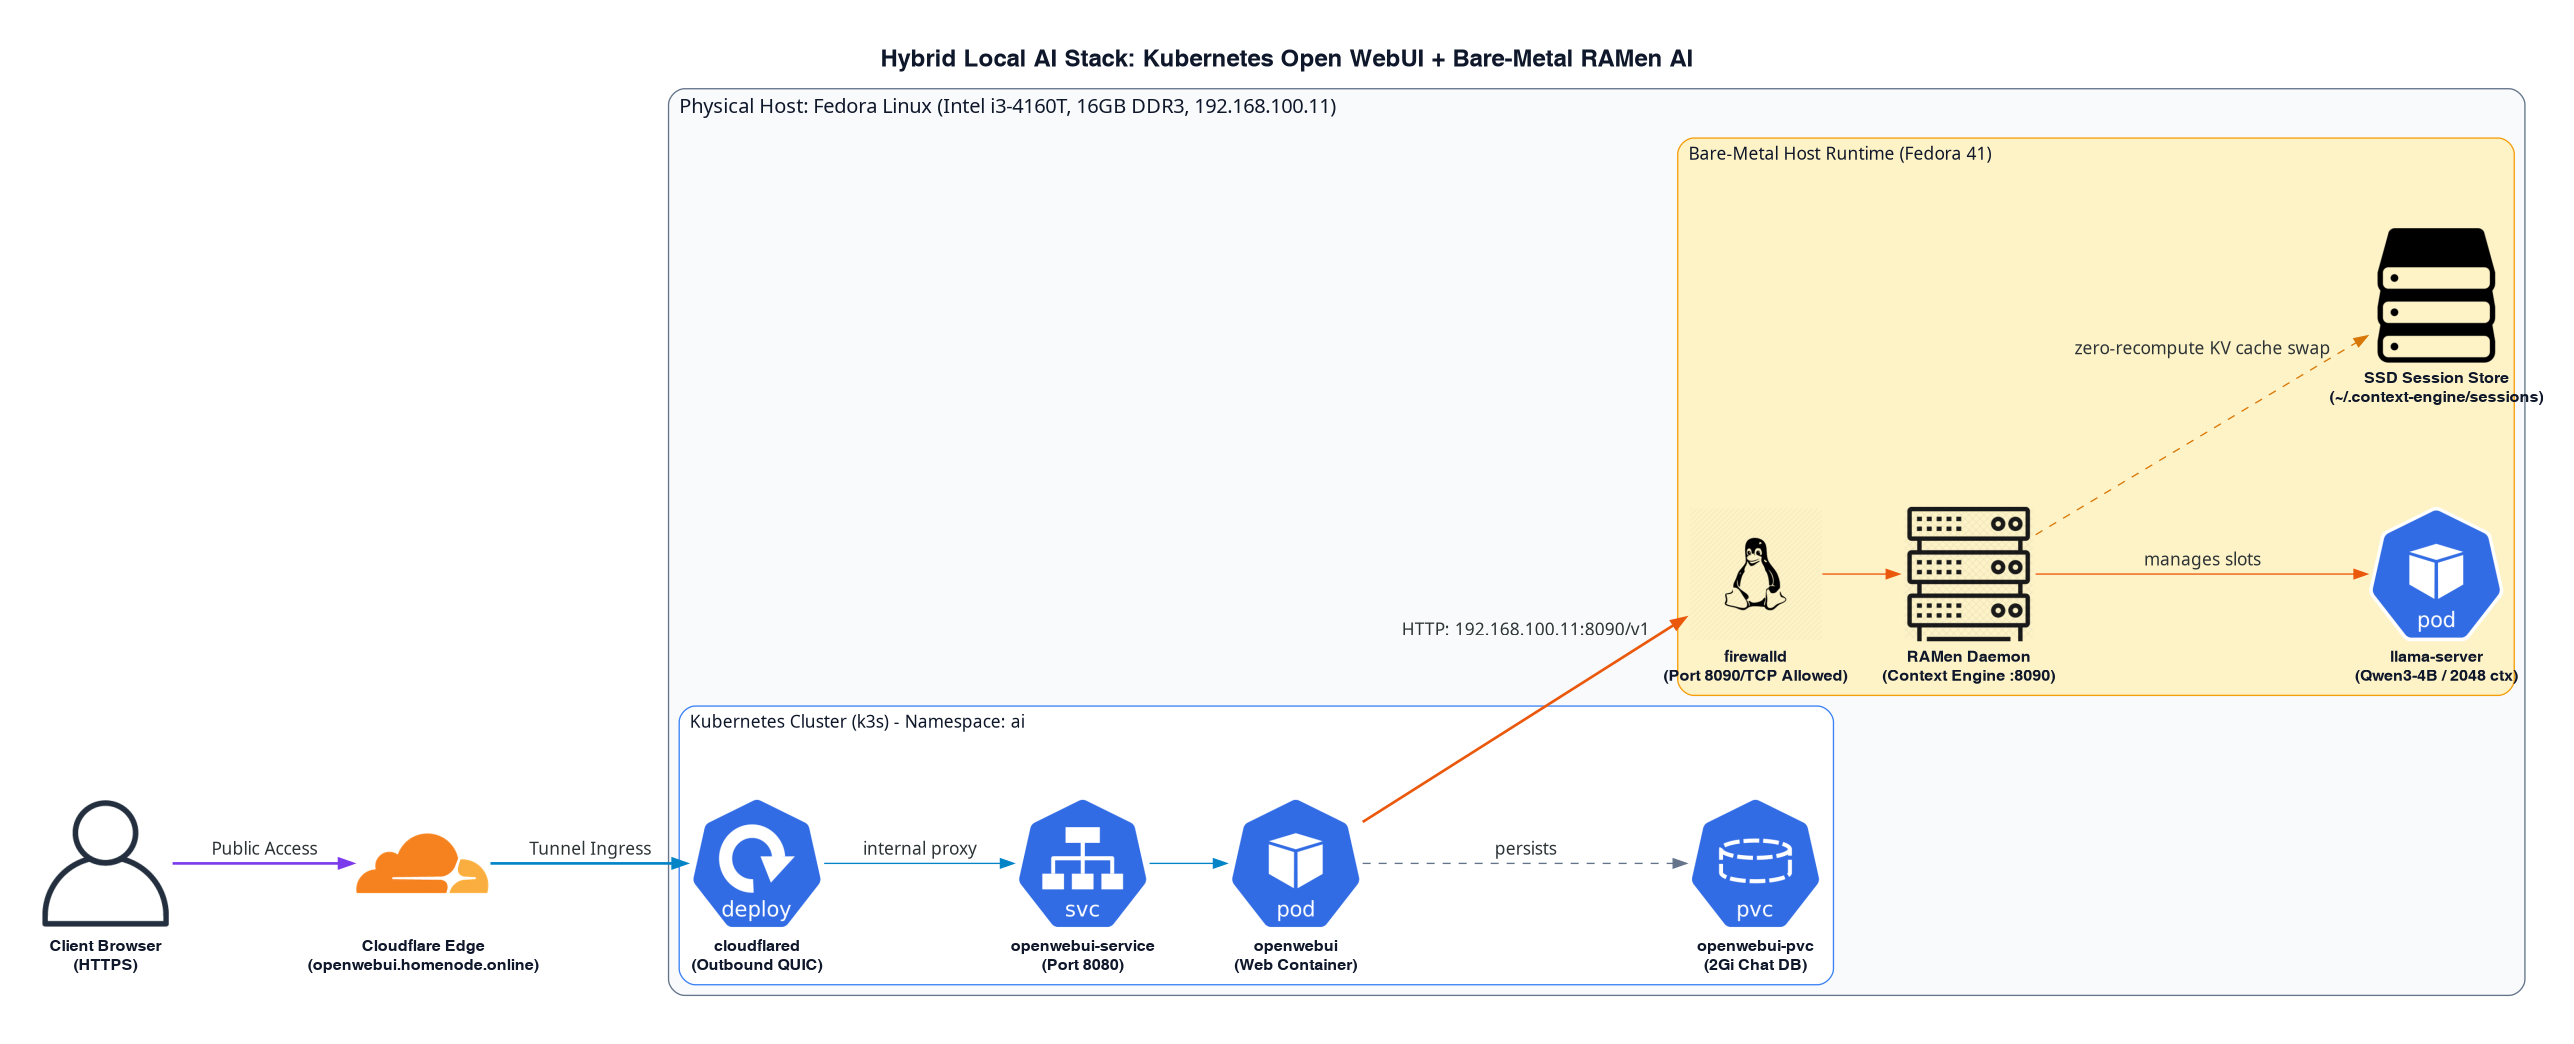
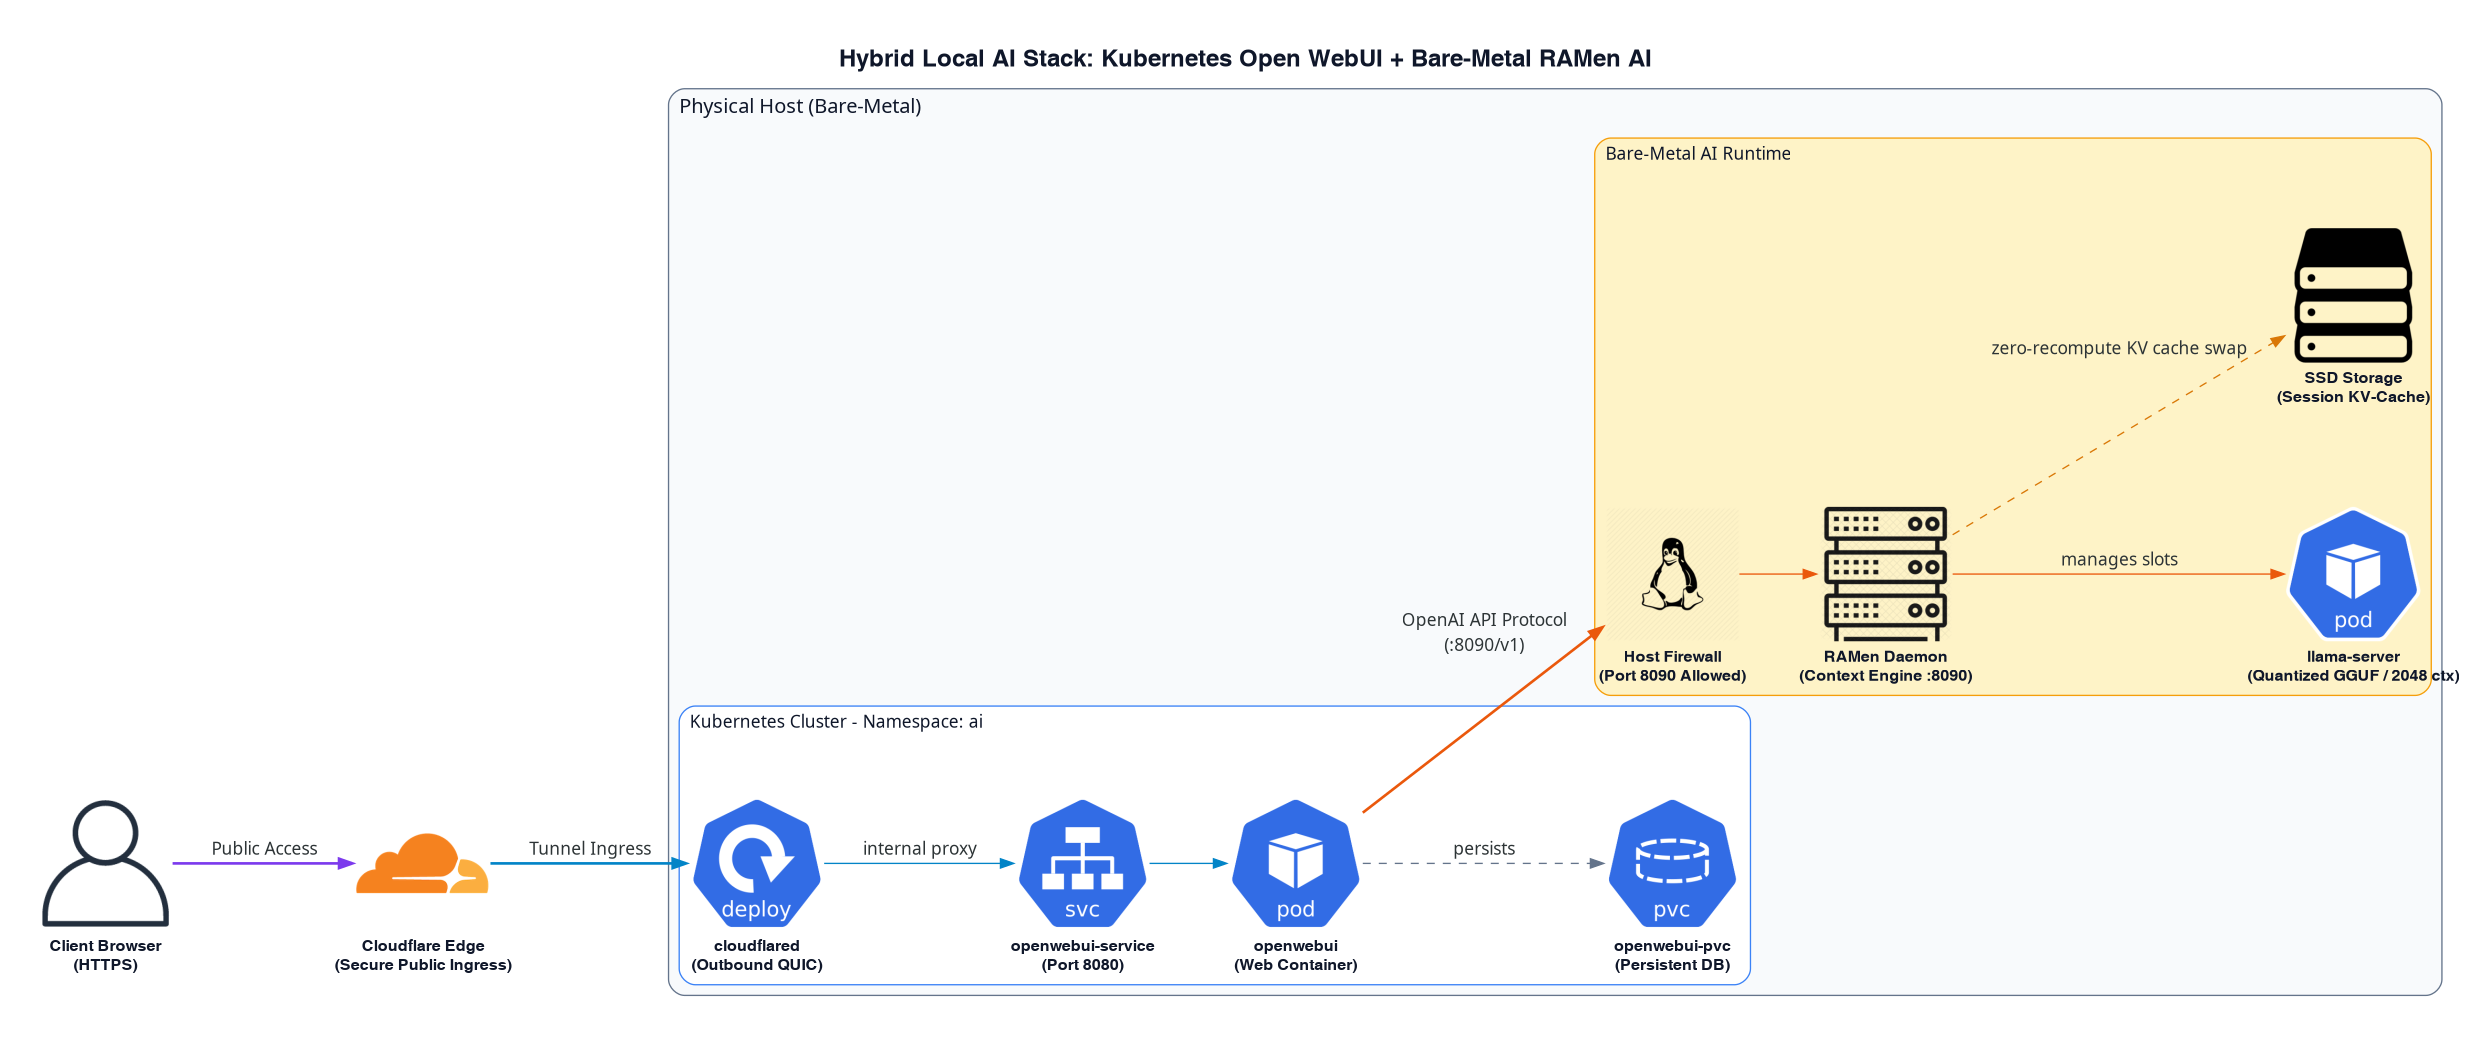
sanitize architecture diagram and documentation from personal system info

diff --git a/diagram.py b/diagram.py
@@ -53,26 +53,26 @@ with Diagram(
     edge_attr=EDGE_ATTR,
 ):
     user = User("Client Browser\n(HTTPS)")
-    cf_edge = Cloudflare("Cloudflare Edge\n(openwebui.homenode.online)")
+    cf_edge = Cloudflare("Cloudflare Edge\n(Secure Public Ingress)")
 
-    with Cluster("Physical Host: Fedora Linux (Intel i3-4160T, 16GB DDR3, 192.168.100.11)", graph_attr={"bgcolor": "#f8fafc", "pencolor": "#64748b", "fontsize": "15"}):
-        with Cluster("Kubernetes Cluster (k3s) - Namespace: ai", graph_attr={"bgcolor": "#ffffff", "pencolor": "#3b82f6", "fontsize": "13"}):
+    with Cluster("Physical Host (Bare-Metal)", graph_attr={"bgcolor": "#f8fafc", "pencolor": "#64748b", "fontsize": "15"}):
+        with Cluster("Kubernetes Cluster - Namespace: ai", graph_attr={"bgcolor": "#ffffff", "pencolor": "#3b82f6", "fontsize": "13"}):
             tunnel = Deployment("cloudflared\n(Outbound QUIC)")
             webui_svc = Service("openwebui-service\n(Port 8080)")
             webui_pod = Pod("openwebui\n(Web Container)")
-            webui_pvc = PersistentVolumeClaim("openwebui-pvc\n(2Gi Chat DB)")
+            webui_pvc = PersistentVolumeClaim("openwebui-pvc\n(Persistent DB)")
 
             tunnel >> Edge(color="#0284c7", label="internal proxy") >> webui_svc
             webui_svc >> Edge(color="#0284c7") >> webui_pod
             webui_pod >> Edge(color="#64748b", style="dashed", label="persists") >> webui_pvc
 
-        with Cluster("Bare-Metal Host Runtime (Fedora 41)", graph_attr={"bgcolor": "#fef3c7", "pencolor": "#f59e0b", "fontsize": "13"}):
-            firewall = LinuxGeneral("firewalld\n(Port 8090/TCP Allowed)")
+        with Cluster("Bare-Metal AI Runtime", graph_attr={"bgcolor": "#fef3c7", "pencolor": "#f59e0b", "fontsize": "13"}):
+            firewall = LinuxGeneral("Host Firewall\n(Port 8090 Allowed)")
             ramen_daemon = Rack("RAMen Daemon\n(Context Engine :8090)")
-            llama_engine = Pod("llama-server\n(Qwen3-4B / 2048 ctx)")
-            ssd_cache = Storage("SSD Session Store\n(~/.context-engine/sessions)")
+            llama_engine = Pod("llama-server\n(Quantized GGUF / 2048 ctx)")
+            ssd_cache = Storage("SSD Storage\n(Session KV-Cache)")
 
-            webui_pod >> Edge(color="#ea580c", style="bold", label="HTTP: 192.168.100.11:8090/v1") >> firewall
+            webui_pod >> Edge(color="#ea580c", style="bold", label="OpenAI API Protocol\n(:8090/v1)") >> firewall
             firewall >> Edge(color="#ea580c") >> ramen_daemon
             ramen_daemon >> Edge(color="#ea580c", label="manages slots") >> llama_engine
             ramen_daemon >> Edge(color="#d97706", style="dashed", label="zero-recompute KV cache swap") >> ssd_cache

diff --git a/README.md b/README.md
@@ -1,6 +1,6 @@
 # Hybrid Local AI: Kubernetes Open WebUI + Bare-Metal RAMen AI
 
-A high-efficiency, zero-recomputation local AI infrastructure running on modest home server hardware (**Intel Core i3-4160T**, 16 GB DDR3 RAM, Fedora Linux). 
+A high-efficiency, zero-recomputation local AI infrastructure running on modest server hardware. 
 
 This setup combines a **Kubernetes-hosted Open WebUI** frontend exposed securely via **Cloudflare Tunnel** with a **Bare-Metal RAMen AI Context Engine** on the host OS to eliminate container CPU throttling, constrain context size to prevent CPU freezes, and persist KV-cache attention slots directly to NVMe/SSD.
 
@@ -14,11 +14,11 @@ This setup combines a **Kubernetes-hosted Open WebUI** frontend exposed securely
 [ Browser / User ]
         │ (HTTPS)
         ▼
-[ Cloudflare Edge: openwebui.homenode.online ]
+[ Cloudflare Edge: Secure Public Ingress ]
         │
         ▼ (Outbound QUIC Tunnel - Zero Inbound Ports)
 ┌────────────────────────────────────────────────────────────────────────┐
-│ Kubernetes Cluster (k3s) - Namespace: ai                               │
+│ Kubernetes Cluster - Namespace: ai                                     │
 │                                                                        │
 │  [ cloudflared ] ───► [ openwebui-service:8080 ]                       │
 │                              │                                         │
@@ -27,19 +27,19 @@ This setup combines a **Kubernetes-hosted Open WebUI** frontend exposed securely
 │                              │              (Users & Chat History)     │
 │                              │                                         │
 └──────────────────────────────┼─────────────────────────────────────────┘
-                               │ OpenAI API: http://192.168.100.11:8090/v1
+                               │ OpenAI API Protocol (:8090/v1)
                                ▼
 ┌────────────────────────────────────────────────────────────────────────┐
-│ Bare-Metal Host (Fedora Linux - Intel i3-4160T, 16 GB RAM)             │
+│ Bare-Metal Host Runtime                                                │
 │                                                                        │
-│  [ firewalld: Port 8090/TCP Allowed ]                                  │
+│  [ Host Firewall: Port 8090 Allowed ]                                  │
 │        │                                                               │
 │        ▼                                                               │
 │  [ RAMen AI Daemon (:8090) ]                                           │
 │        │                                                               │
-│        ├──► [ llama-server ] (Qwen3 4B Instruct / 2048 Context / 4 Thr)│
+│        ├──► [ llama-server ] (Quantized GGUF / 2048 Context)           │
 │        │                                                               │
-│        └──► [ SSD KV-Cache Store ] (~/.context-engine/sessions)        │
+│        └──► [ SSD Storage ] (Session KV-Cache)                         │
 │             (Zero-Recompute Slot Swapping in ~50ms)                    │
 └────────────────────────────────────────────────────────────────────────┘
 ```
@@ -48,28 +48,28 @@ This setup combines a **Kubernetes-hosted Open WebUI** frontend exposed securely
 
 ## The Engineering Challenge & Solution
 
-### 1. The Dual-Core CPU & Memory Bottleneck
-Running local LLMs on an older dual-core processor (Intel Core i3-4160T, 2 cores, 4 threads, 35W TDP, Haswell) poses severe constraints:
-* **8B Model Overload**: An 8-Billion parameter model requires reading ~4.7 GB of weights per token. On a dual-core CPU with DDR3 memory bandwidth, prompt processing locks the CPU at 100% for minutes.
-* **Unconstrained Context Windows**: When RAMen starts with 14+ GB of free memory, its automatic planner allocates **19,000 to 51,000 token context windows**. On a low-power CPU, calculating attention matrices across 19K tokens paralyzes the system indefinitely.
+### 1. Dual-Core CPU & Memory Bottlenecks
+Running local LLMs on resource-constrained processors poses severe constraints:
+* **8B Model Overload**: Large models require massive memory bandwidth and compute operations per token. On low-power CPUs without dedicated GPUs, prompt processing locks the system for minutes.
+* **Unconstrained Context Windows**: When inference servers allocate **19,000 to 51,000 token context windows**, calculating attention matrices across long contexts paralyzes dual-core systems.
 * **The Solution**: 
-  1. Downscale to a compact, high-efficiency 4B model (**Qwen3 4B Instruct**, 2.5 GB).
+  1. Downscale to a compact, high-efficiency quantized model (such as a 3B or 4B GGUF).
   2. Enforce a strict context window of **2,048 tokens** (`--ctx 2048`).
-  3. Maximize parallel execution across all logical threads (`--threads 4`).
+  3. Maximize parallel execution across logical CPU threads.
 
 ### 2. Why Run RAMen Bare-Metal Outside Kubernetes?
-* **Zero Container/Cgroups Throttling**: Direct access to AVX2 instruction sets without container virtualization layers.
-* **Persistent Model & Cache Directory**: Models and session snapshots live permanently in `/home/yasir/.context-engine/` on host storage without re-downloading on pod restarts.
-* **Direct Network Access**: Open WebUI in Kubernetes connects directly to the host IP (`http://192.168.100.11:8090/v1`) after allowing port 8090 in Fedora's `firewalld`.
+* **Zero Container/Cgroups Throttling**: Direct access to AVX instruction sets without container virtualization layers.
+* **Persistent Model & Cache Directory**: Models and session snapshots live permanently on host storage without re-downloading on container restarts.
+* **Direct Network Access**: Open WebUI in Kubernetes connects directly to the host IP (`http://<HOST-IP>:8090/v1`) through the local firewall.
 
 ### 3. How RAMen AI Eliminates Prompt Prefill Latency
 In standard inference engines (vanilla llama.cpp or Ollama):
 * Every turn in a conversation forces the model to re-read and compute the mathematical Key-Value attention states for **all previous messages** (Prompt Evaluation).
-* On an i3 CPU, a 1,500-token chat history requires 30 to 60 seconds of 100% CPU time before emitting token 1.
+* On low-power CPUs, a 1,500-token chat history requires 30 to 60 seconds of 100% CPU time before emitting token 1.
 
 With RAMen AI:
 * RAMen captures the computed **KV cache vectors** in memory after each generation.
-* **SSD Slot Swapping**: When switching chats or when an idle timeout triggers, RAMen snapshots the binary KV matrices to `~/.context-engine/sessions/` on the SSD.
+* **SSD Slot Swapping**: When switching chats or when an idle timeout triggers, RAMen snapshots the binary KV matrices to disk on the SSD.
 * **Instant Recall**: When resuming a conversation, RAMen reads the session back into memory in ~50ms, skipping the prompt prefill phase entirely.
 
 ---
@@ -82,7 +82,7 @@ With RAMen AI:
 ├── docs/
 │   └── architecture.png               # High-resolution visual system diagram
 └── k8s/
-    ├── 01-deployment-openwebui.yaml   # Open WebUI deployment (points to 192.168.100.11:8090)
+    ├── 01-deployment-openwebui.yaml   # Open WebUI deployment (configured for host:8090)
     ├── 02-service-openwebui.yaml      # ClusterIP service for Open WebUI (port 8080)
     ├── 03-pvc-openwebui.yaml          # 2Gi storage for SQLite database & user sessions
     └── kustomization.yaml             # Single-command Kustomize bundle
@@ -92,10 +92,10 @@ With RAMen AI:
 
 ## Step-by-Step Deployment Guide
 
-### Phase 1: Host Preparation (Fedora Linux)
+### Phase 1: Host Preparation
 
-#### 1. Open Port 8090 in Fedora Firewall
-Fedora's `firewalld` blocks pod network traffic (`10.42.0.0/16`) to host ports by default. Allow TCP port 8090:
+#### 1. Open Port 8090 in Host Firewall
+Allow pod network traffic to access port 8090:
 
 ```bash
 sudo firewall-cmd --add-port=8090/tcp --permanent
@@ -116,30 +116,28 @@ ramen start qwen3-4b --ctx 2048 --host 0.0.0.0 --port 8090
 Verify the local model server is healthy:
 ```bash
 curl http://127.0.0.1:8090/v1/models
-# Output: {"object": "list", "data": [{"id": "qwen3:4b", ...}]}
 ```
 
 ---
 
-### Phase 2: Kubernetes Deployment (k3s)
+### Phase 2: Kubernetes Deployment
 
-#### 1. Deploy Open WebUI
-Deploy Open WebUI using Kustomize:
+#### 1. Configure the Target Host IP
+In `k8s/01-deployment-openwebui.yaml`, verify `OPENAI_API_BASE_URL` matches your host's local IP address:
+```yaml
+- name: OPENAI_API_BASE_URL
+  value: "http://<YOUR-HOST-IP>:8090/v1"
+```
 
+#### 2. Deploy Open WebUI
 ```bash
 kubectl apply -k k8s/
 ```
 
-#### 2. Verify Pod and Service
+#### 3. Verify Pod and In-Cluster Access
 ```bash
 kubectl get pods,svc -n ai
-```
-
-#### 3. Verify Direct Connectivity to Host
-Test that the Open WebUI container can reach RAMen running on the host:
-
-```bash
-kubectl exec -it -n ai deploy/openwebui -- curl -s http://192.168.100.11:8090/v1/models
+kubectl exec -it -n ai deploy/openwebui -- curl -s http://<YOUR-HOST-IP>:8090/v1/models
 ```
 
 ---
@@ -158,17 +156,3 @@ ramen status
 ls -lh ~/.context-engine/sessions/
 ```
 Shows serialized binary cache files persisted to disk for instant conversation resumption without CPU recalculation.
-
----
-
-## Hardware Specifications
-
-| Component | Specification |
-| :--- | :--- |
-| **Host System** | Fedora Linux 41 (x86_64) |
-| **CPU** | Intel(R) Core(TM) i3-4160T @ 3.10GHz (2 Cores, 4 Threads, 35W TDP) |
-| **Memory** | 16 GB DDR3 Non-ECC |
-| **Storage** | High-speed SSD (KV-cache slot swapping) |
-| **Orchestration**| Lightweight Kubernetes (`k3s`) |
-| **Ingress** | Outbound Cloudflare QUIC Tunnel (`cloudflared`) |
-| **Active Model** | `Qwen3-4B-Instruct-2507-Q4_K_M.gguf` (2.5 GB) |
